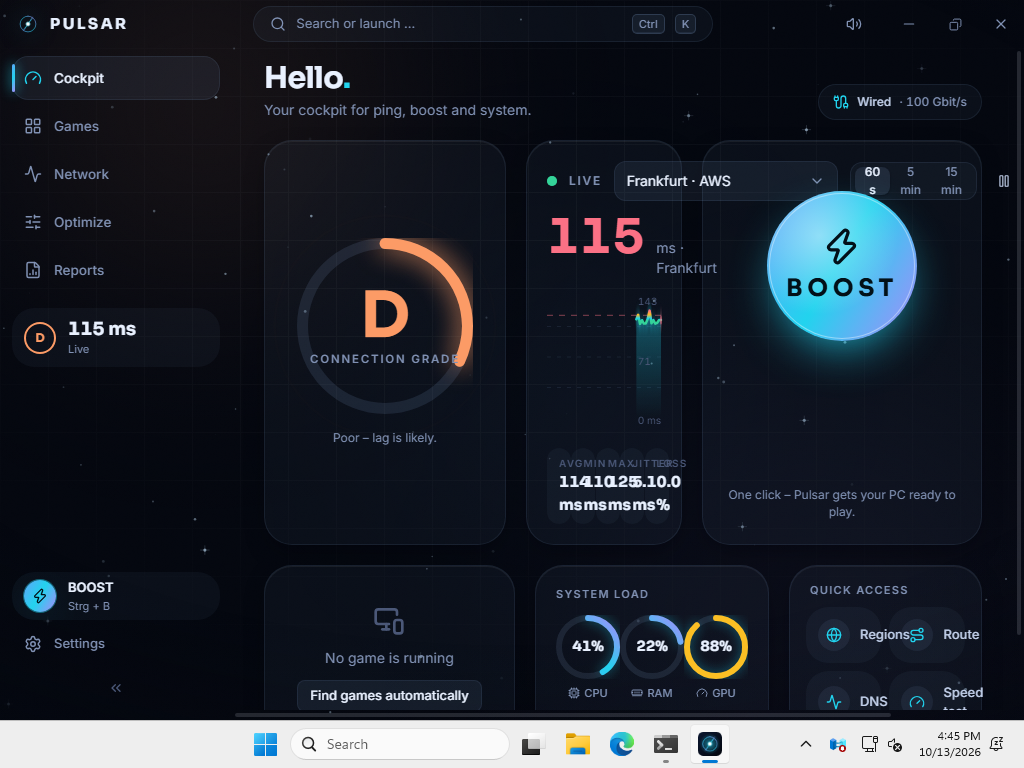
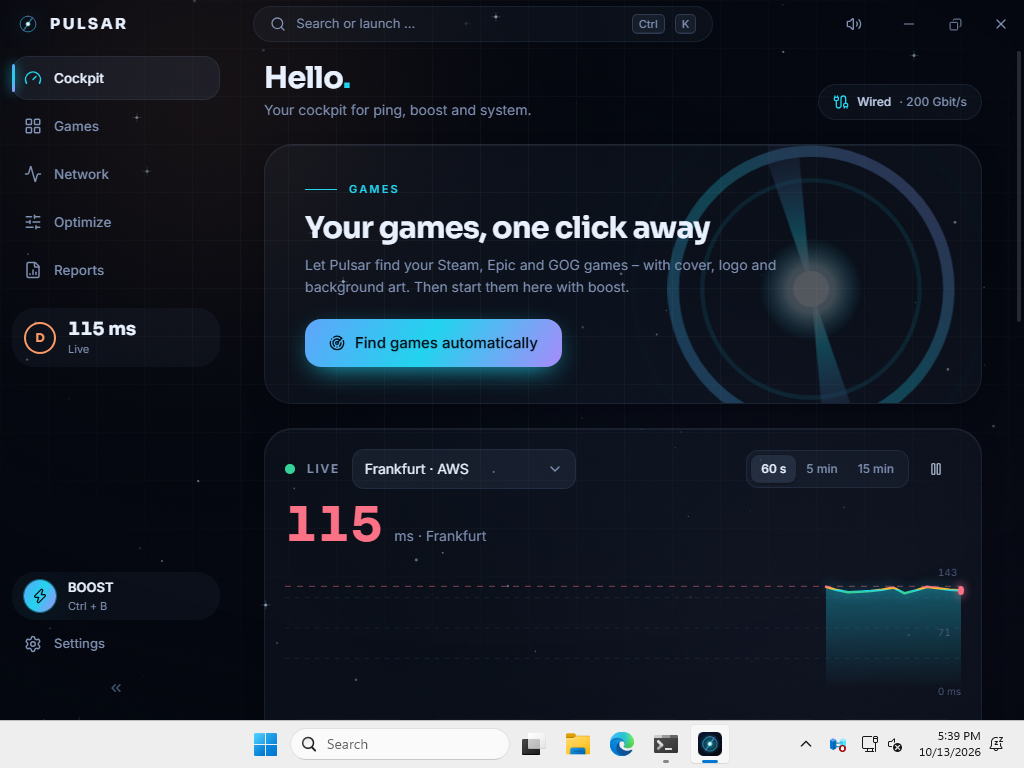
Doku: neue Windows-Screenshots der überarbeiteten Oberfläche
Claude-Session: https://claude.ai/code/session_01YX54pngjAEtz3AfbMgVhnY

diff --git a/docs/TESTBERICHT.md b/docs/TESTBERICHT.md
@@ -22,7 +22,7 @@ Workflow `.github/workflows/windows.yml` auf `windows-latest`:
 Ergebnis des letzten Laufs: siehe `https://github.com/georghatzmann-bit/vanity-/actions` (Eintrag „Windows Build & Test“) –
 die Selbsttest-Berichte (`selftest.json`, `app-selftest.json`) und Screenshots liegen im Artefakt `pulsar-windows-<version>`.
 
-Echte Screenshots vom Windows-Rechner der CI (1024×768, englische Systemsprache):
+Echte Screenshots vom Windows-Rechner der CI (1024×768, englische Systemsprache, noch keine Spiele installiert – darum das „Spiele finden“-Banner):
 
 ![Pulsar auf Windows](screenshots/windows-app-cockpit.png)
 ![Pulsar Setup auf Windows](screenshots/windows-setup-willkommen.png)
@@ -56,7 +56,7 @@ Echte Screenshots vom Windows-Rechner der CI (1024×768, englische Systemsprache
 | Was | Ergebnis |
 |---|---|
 | `npm run typecheck` (App + Installer) | 0 Fehler |
-| `npm test` | 20 Tests bestanden |
+| `npm test` | 21 Tests bestanden (inkl. Prüfung, dass jeder benutzte Text existiert) |
 | `cargo test` App (Linux) | 143 Tests bestanden (Datenbank, Scanner, Bilder, Optimierer 38, Netzwerk 41 – darunter DNS-Pakete gegen einen lokalen UDP-Server und TCP-Ping gegen lokale Ports) |
 | `cargo test` Installer (Linux) | bestanden |
 | `cargo xwin check --target x86_64-pc-windows-msvc` | Windows-Code (ICMP, IP Helper, WLAN, Registry, powercfg) kompiliert ohne Fehler |
